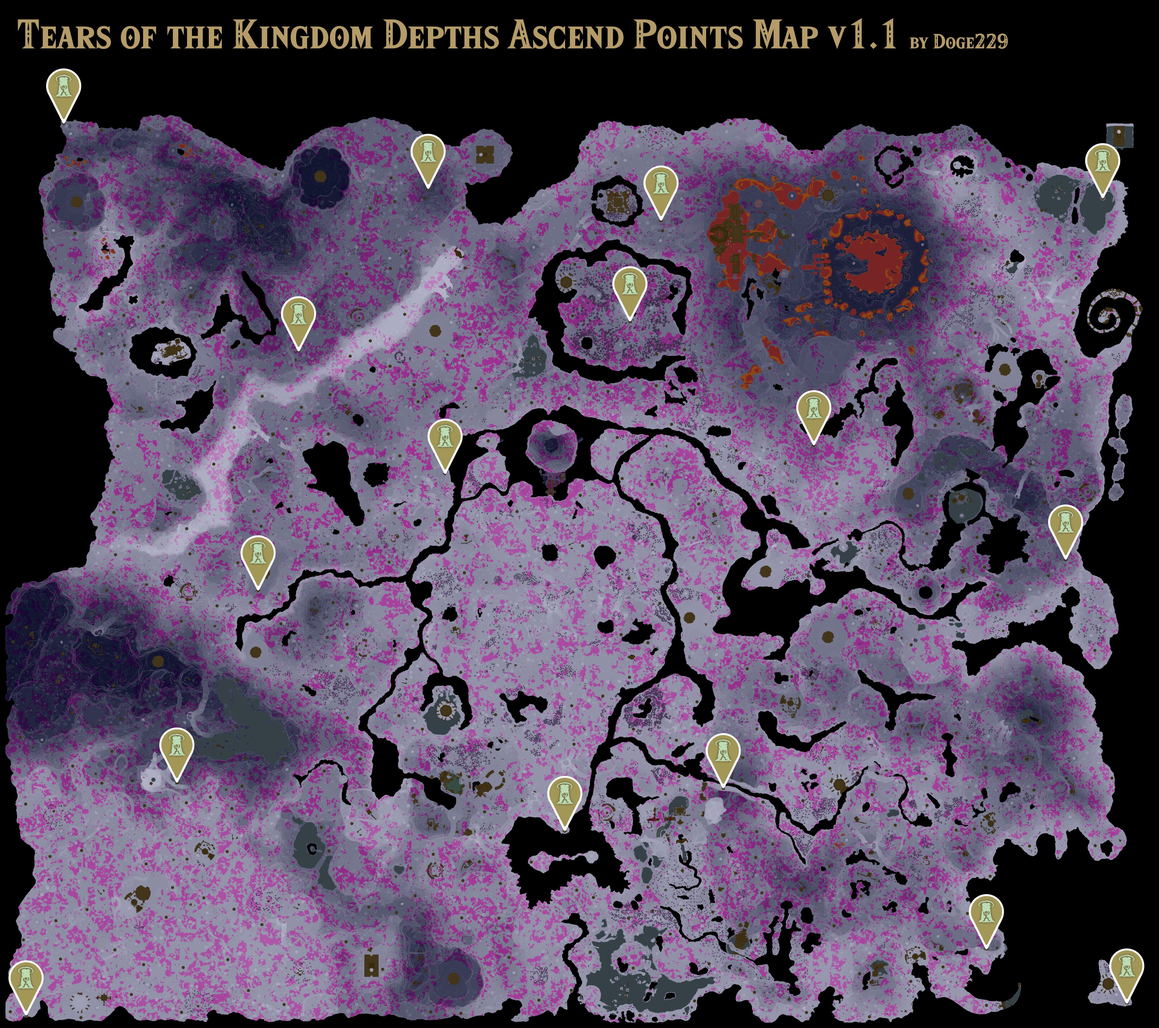
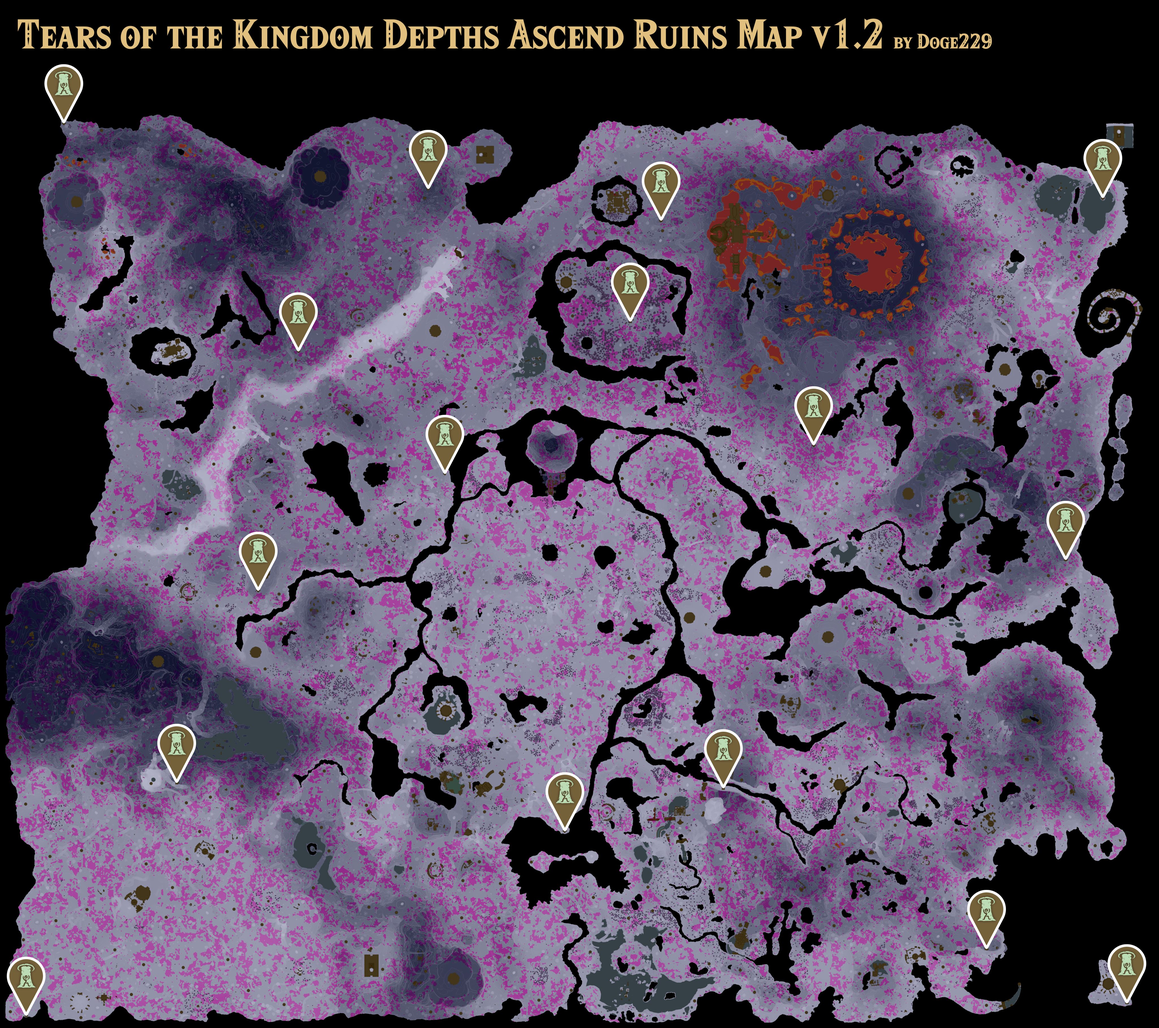
updated ascendmap and koltinstallmap, added aliases for ascendmap

diff --git a/messages.py b/messages.py
@@ -151,7 +151,7 @@ HELP_TAG9 = ['''**Useful Links and Stuff**''', '''
 HELP_TAG10 = ['''**Meta Info**''', '''
 `dupe1.1.2, dupe1.2.0, dupe1.2.1, downpatch, preventupdates, versioncheck, transferalbum, whereDLC`''']
 HELP_TAG11 = ['''**Reference Images**''', '''
-`horseupgrades, ascendmap, cherrymap, cherryareamap, koltinstallmap/koltinmap, invupgrades, shrinecounts, dmgformula, armortotals, fruitandveggietotals, meattotals, horntotals, gutsandtailtotals, otherparttotals, oretotals, zonaitotals, dragontotals`''']
+`horseupgrades, ascendmap/ascendruinsmap, cherrymap, cherryareamap, koltinstallmap/koltinmap, invupgrades, shrinecounts, dmgformula, armortotals, fruitandveggietotals, meattotals, horntotals, gutsandtailtotals, otherparttotals, oretotals, zonaitotals, dragontotals`''']
 
 HELP_TAGGENSERVER = ['''**Server Stuff**''', '''
 `spoiler, piracy/tos, selfpromo/selfpromotion, imgperms, rolerewards, arcaneexp/expsystem, sageofhyrule`''']
@@ -1023,7 +1023,7 @@ IMAGE_FRUITANDVEGGIETOTAL = '''Here are the totals for Fruits and Veggies requir
 IMAGE_OTHERPARTTOTAL = '''Here are the totals for Other Monster Parts required to upgrade every armor in TotK:'''
 IMAGE_CRITTERTOTAL = '''Here are the totals for Critters required to upgrade every armor in TotK:'''
 
-IMAGE_ASCENDMAP = '''Here is a map of all the Ascend Points within the Depths:'''
+IMAGE_ASCENDMAP = '''Here is a map of all the Ascend Ruins within the Depths:'''
 IMAGE_CHERRYMAP = '''Here is a map of all the Cherry Blossom Trees in TotK:'''
 IMAGE_CHERRYAREAMAP = '''Here is a map of all the Cherry Blossom Tree Areas in TotK:'''
 IMAGE_KOLTINSTALLMAP = '''Here's a map of the locations where you can find Koltin's Stall in TotK:'''

diff --git a/cogs/tag.py b/cogs/tag.py
@@ -817,6 +817,18 @@ class Tag(commands.Cog):
             case 'ascendmap':
                 ANSWER = messages.IMAGE_ASCENDMAP
                 IMAGE = discord.File(os.path.join(system.DIR_RESOURCE, 'ascendmap.jpg'))
+            case 'ascendpointmap':
+                ANSWER = messages.IMAGE_ASCENDMAP
+                IMAGE = discord.File(os.path.join(system.DIR_RESOURCE, 'ascendmap.jpg'))
+            case 'ascendpointsmap':
+                ANSWER = messages.IMAGE_ASCENDMAP
+                IMAGE = discord.File(os.path.join(system.DIR_RESOURCE, 'ascendmap.jpg'))
+            case 'ascendruinmap':
+                ANSWER = messages.IMAGE_ASCENDMAP
+                IMAGE = discord.File(os.path.join(system.DIR_RESOURCE, 'ascendmap.jpg'))
+            case 'ascendruinsmap':
+                ANSWER = messages.IMAGE_ASCENDMAP
+                IMAGE = discord.File(os.path.join(system.DIR_RESOURCE, 'ascendmap.jpg'))
             case 'cherrymap':
                 ANSWER = messages.IMAGE_CHERRYMAP
                 IMAGE = discord.File(os.path.join(system.DIR_RESOURCE, 'cherrymap.jpg'))
